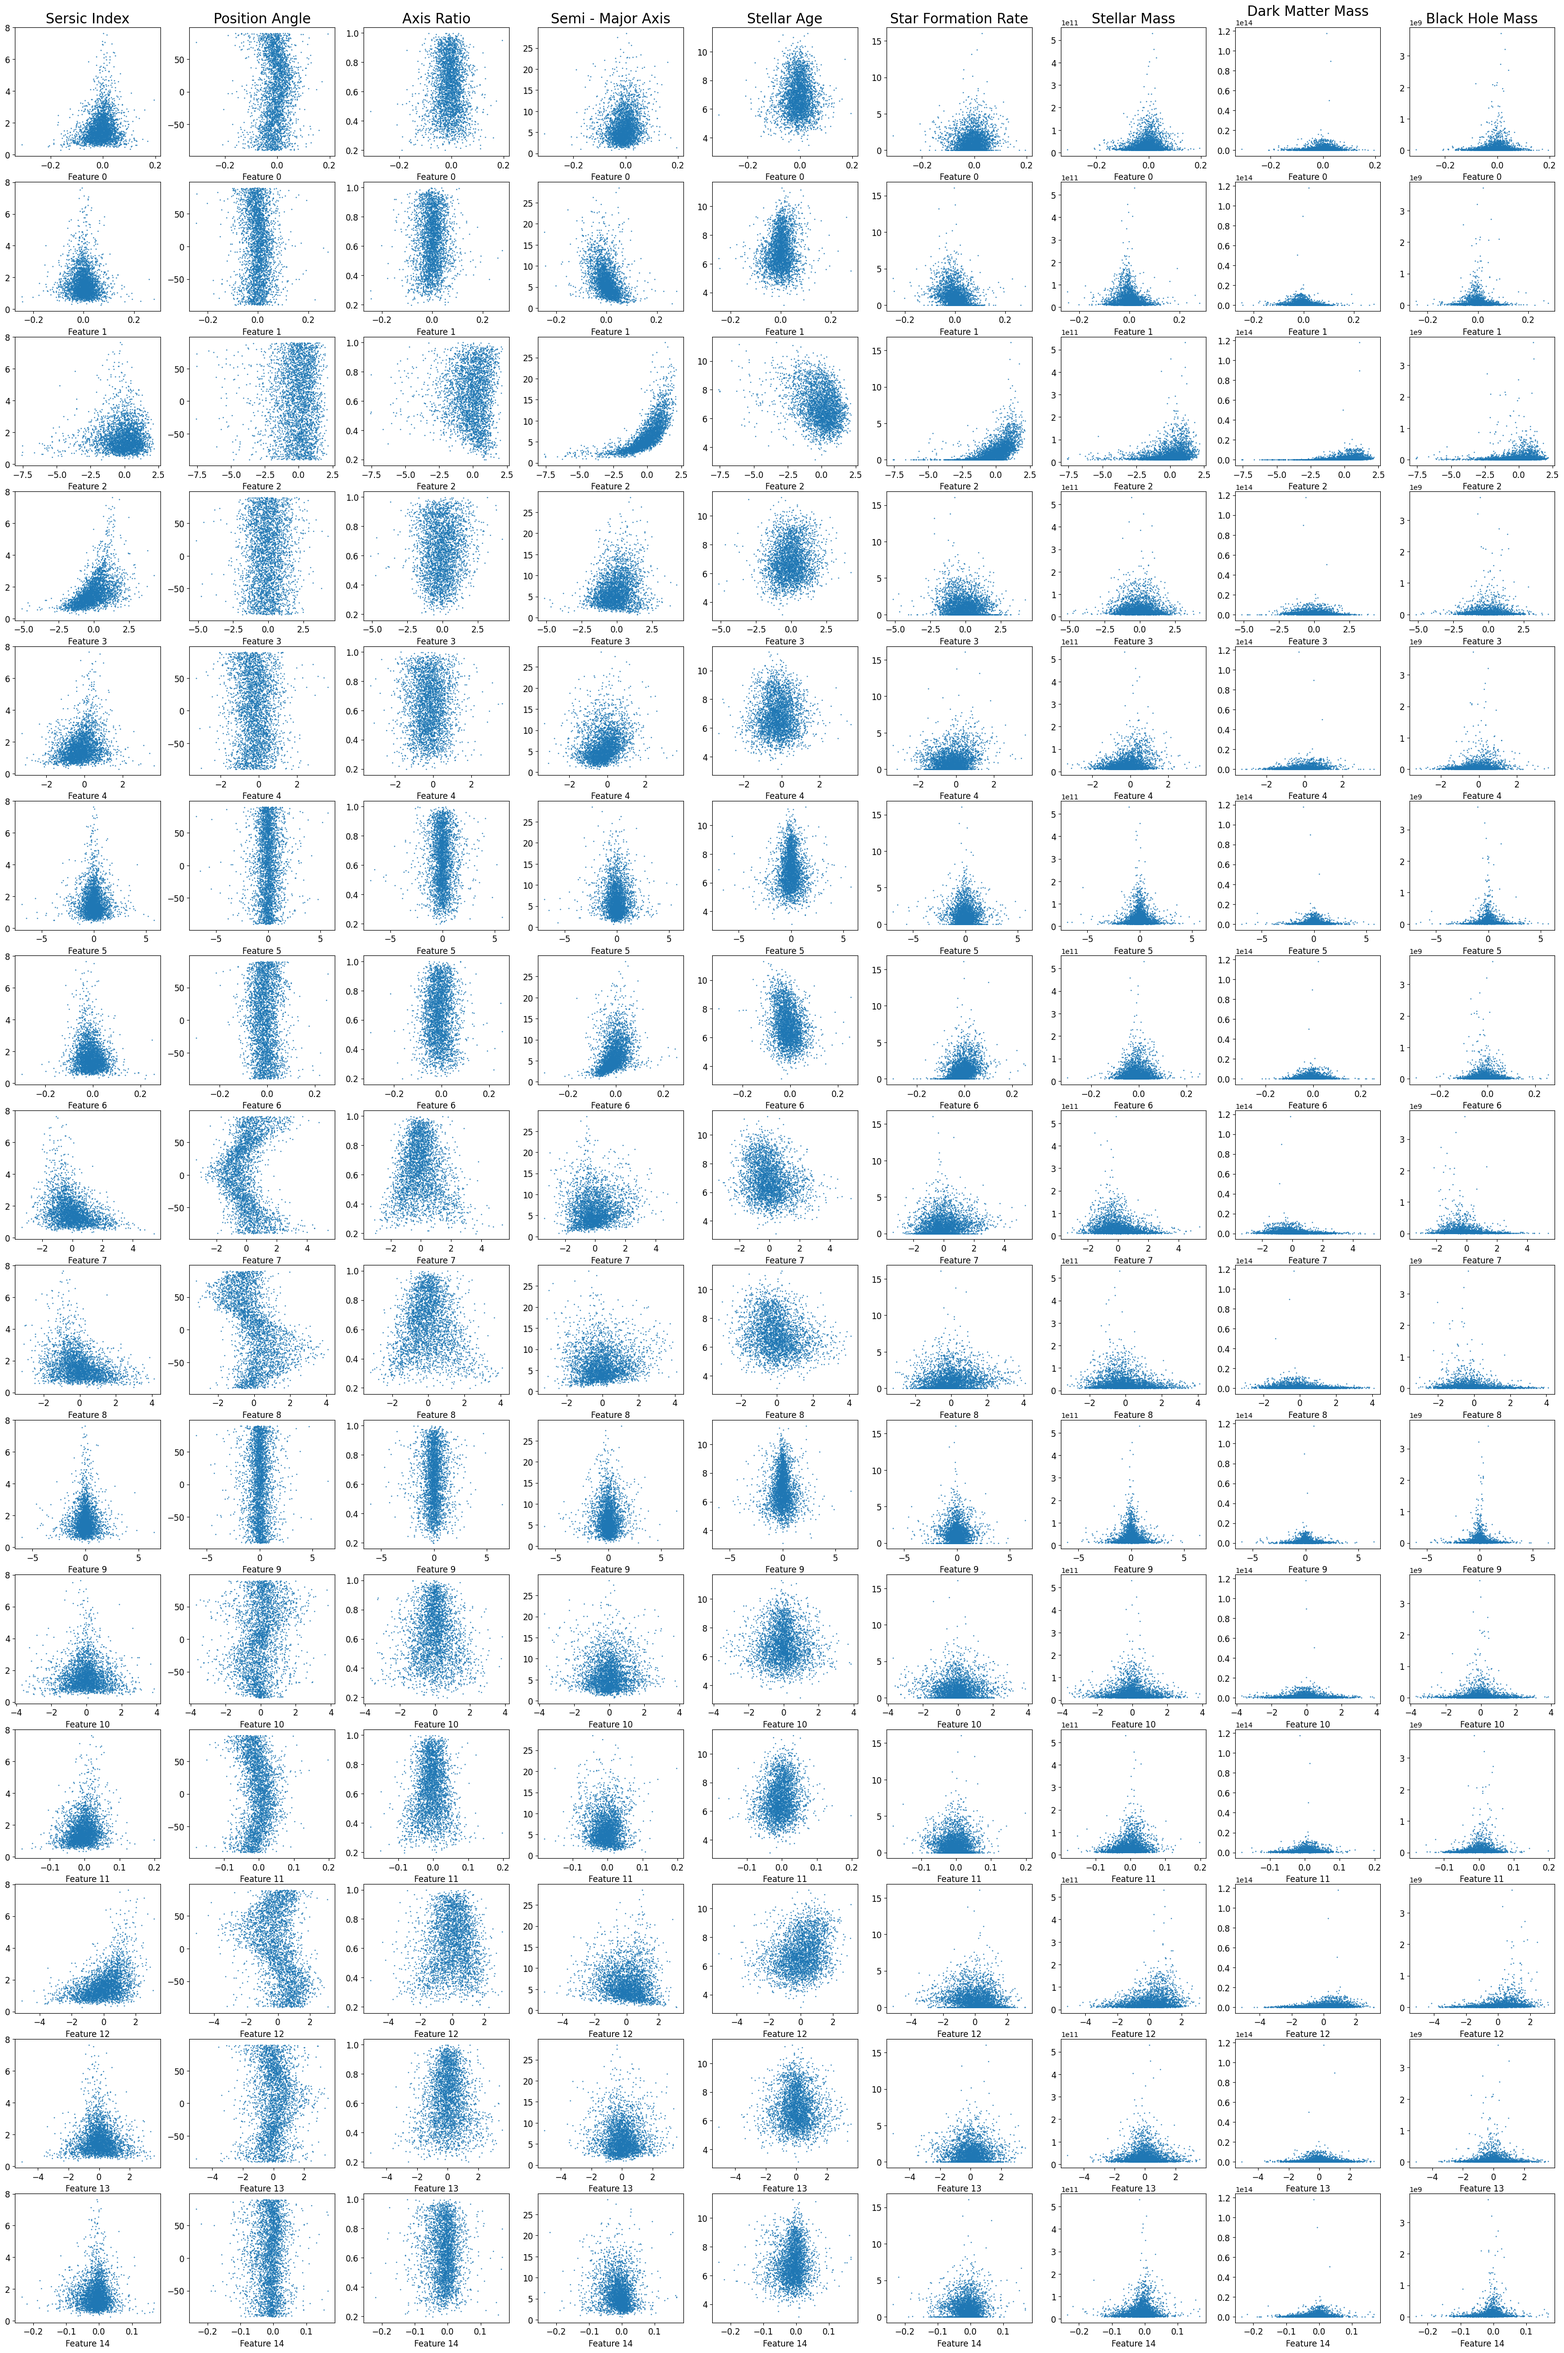
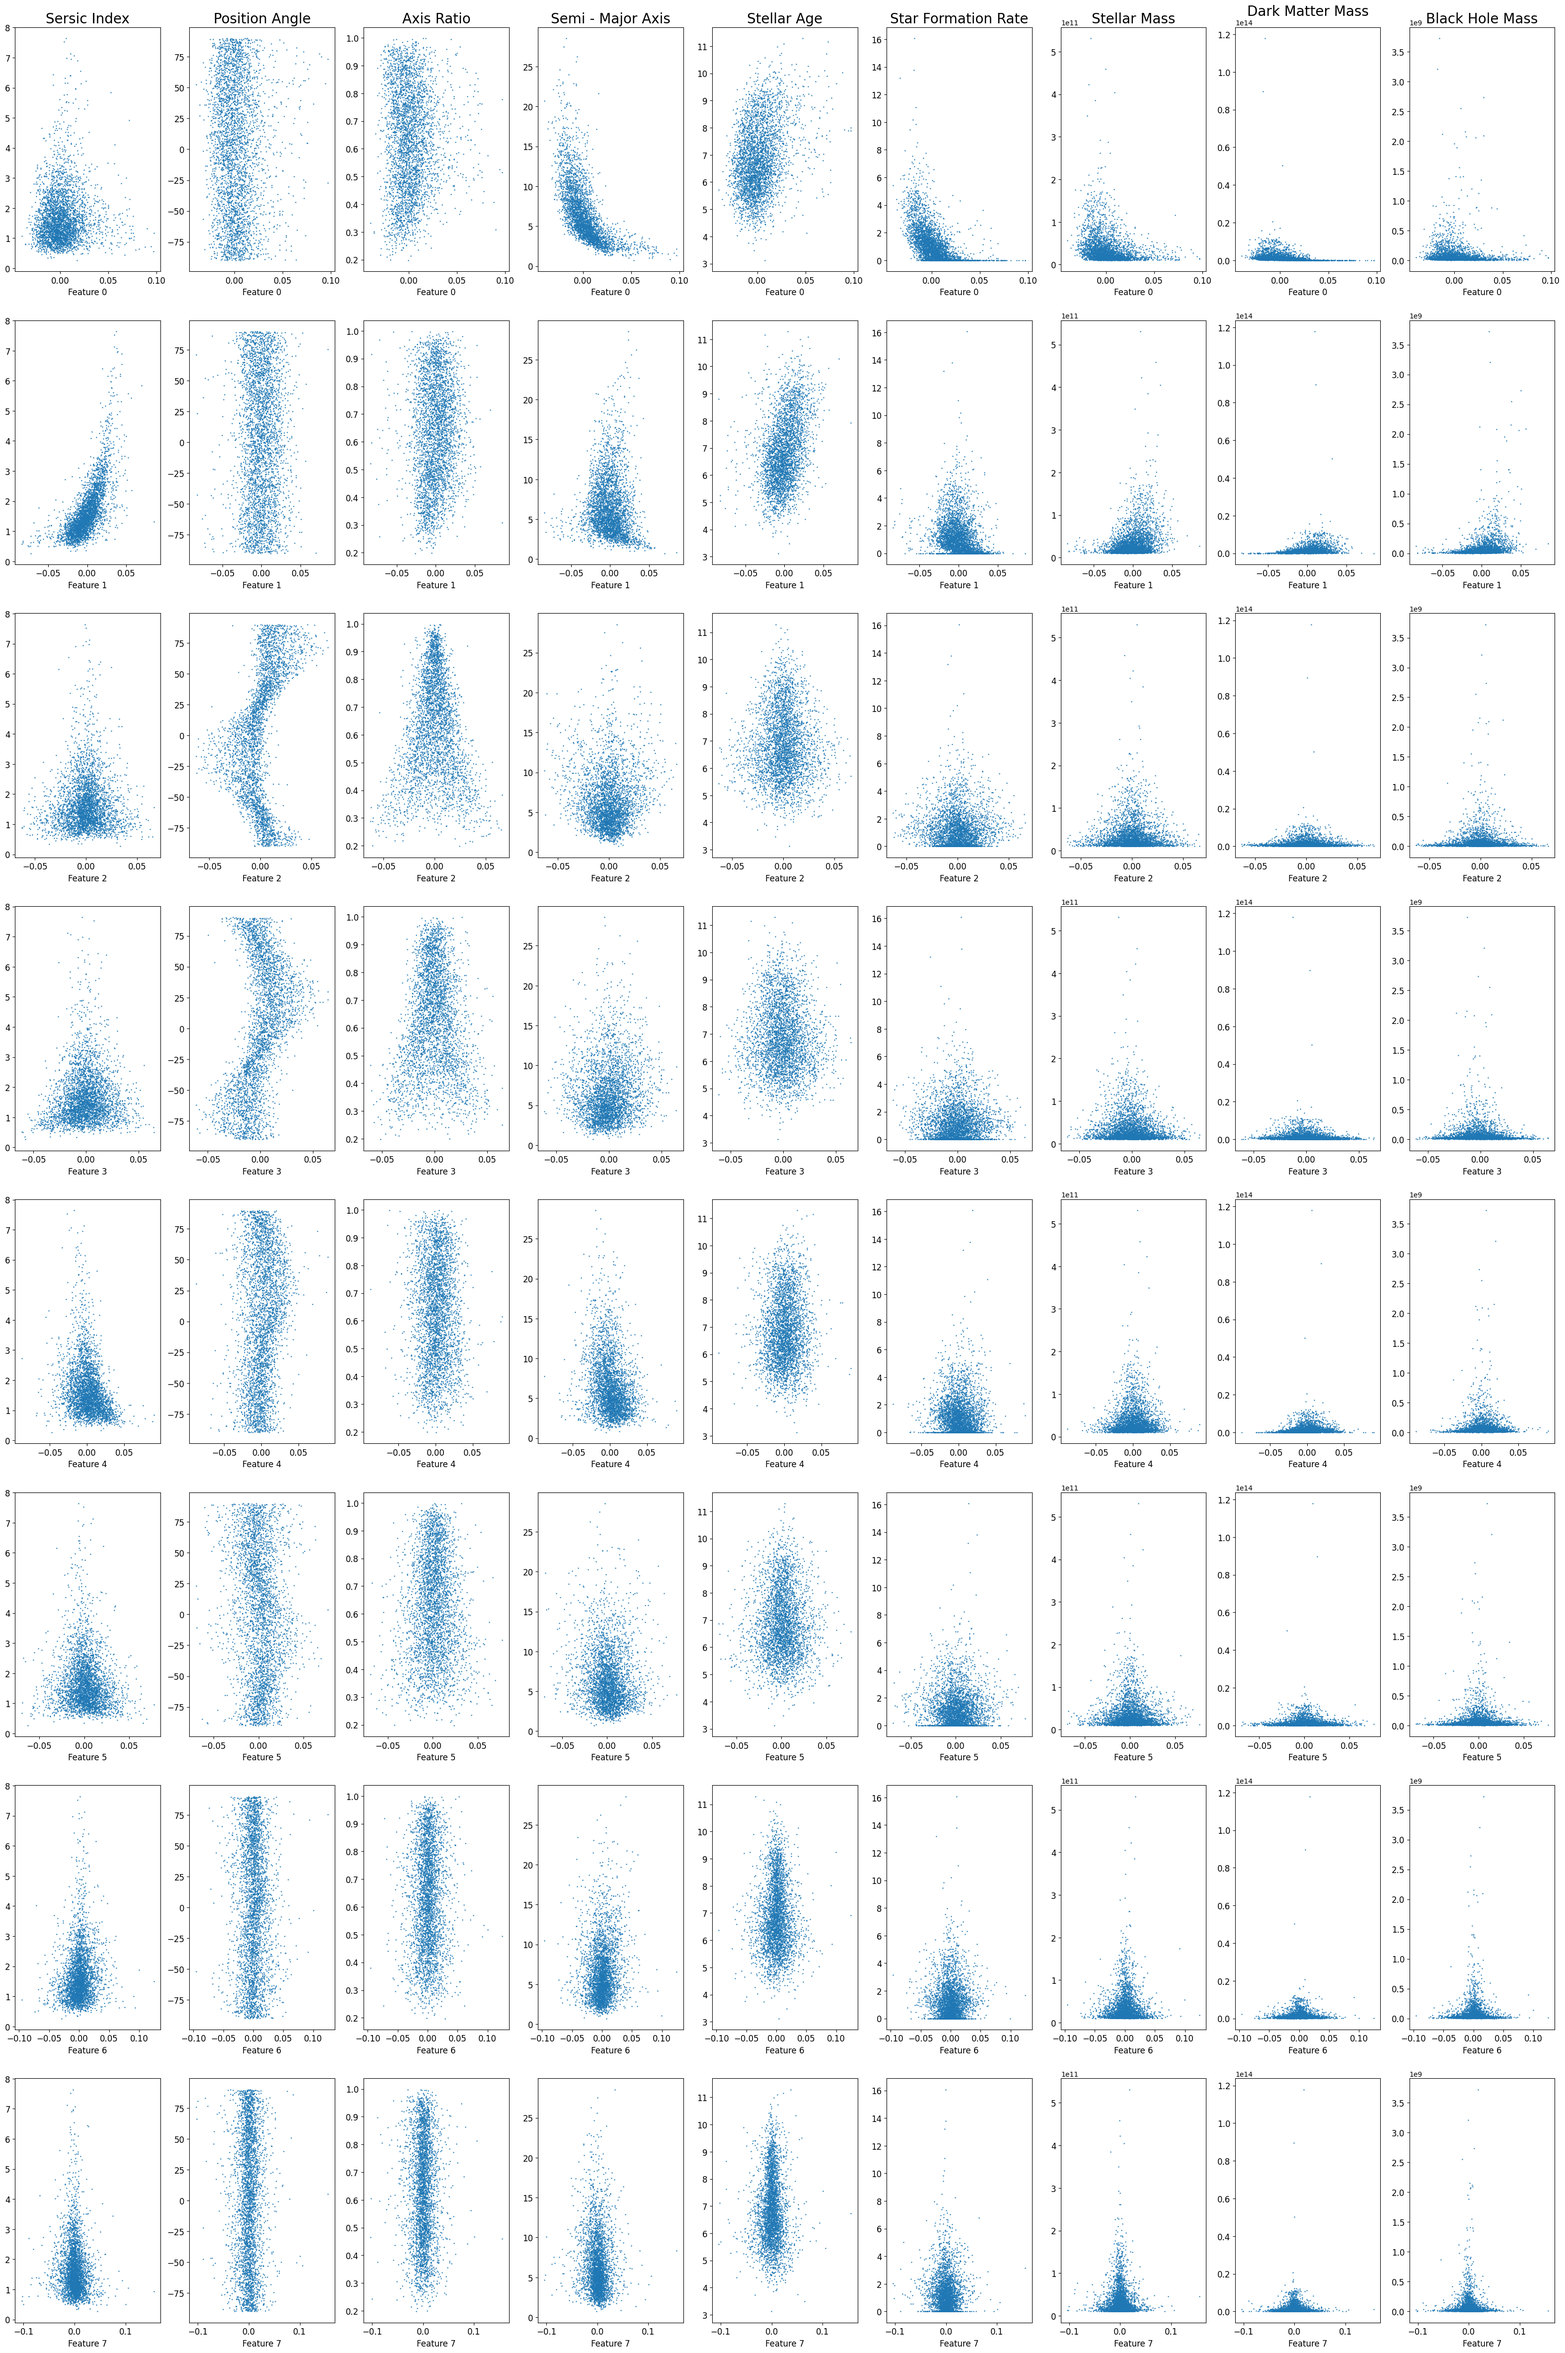
Code

diff --git a/comparison-extracted_features.py b/comparison-extracted_features.py
@@ -17,22 +17,14 @@ pd.set_option('display.max_columns', None)
 pd.set_option('display.width', 500)
 
 
-encoding_dim = 15
+encoding_dim = 38
 
 # load the extracted features
-extracted_features = np.load("Variational Eagle/Extracted Features/Normalised to G/" + str(encoding_dim) + "_feature_300_epoch_features_3.npy")[0]
+extracted_features = np.load("Variational Eagle/Extracted Features/Normalised to G/" + str(encoding_dim) + "_feature_300_epoch_features_1.npy")[0]
 extracted_features_switch = extracted_features.T
 
 print(extracted_features_switch.shape)
 
-
-
-# perform pca on the extracted features
-pca = PCA(n_components=0.90).fit(extracted_features_switch)
-extracted_features_switch = np.array(pca.components_)
-
-
-print(extracted_features_switch.shape)
 
 
 
@@ -61,6 +53,16 @@ print(all_properties[all_properties["flag_r"] == 4])
 print(all_properties[all_properties["flag_r"] == 1])
 print(all_properties[all_properties["flag_r"] == 5])
 
+
+
+
+
+
+# perform pca on the extracted features
+pca = PCA(n_components=0.9).fit(extracted_features.T)
+extracted_features_switch = np.array(pca.components_)
+
+print(extracted_features_switch.shape)
 
 
 
@@ -280,7 +282,7 @@ wrap_labels(ax, 10)
 
 
 
-plt.savefig("Variational Eagle/Correlation Plots/" + str(encoding_dim) + "_feature_pca_8_all_property_correlation_3_abs", bbox_inches='tight')
+plt.savefig("Variational Eagle/Correlation Plots/" + str(encoding_dim) + "_feature_pca_9_all_property_correlation_1_abs", bbox_inches='tight')
 plt.show()
 
 
@@ -316,7 +318,8 @@ for i, property in enumerate(properties):
     axs[0][i].set_title(property_labels[i], fontsize=20)
 
     # for feature in range(0, 19):
-    for feature in range(0, encoding_dim):
+    # for feature in range(0, encoding_dim):
+    for feature in range(0, extracted_features_switch.shape[0]):
 
         axs[feature][i].scatter(x=extracted_features_switch[feature], y=all_properties[property], s=0.5)
         # axs[feature][i].scatter(x=extracted_features_switch[feature+19], y=all_properties[property], s=0.5)
@@ -328,7 +331,7 @@ for i, property in enumerate(properties):
         axs[feature][i].set_ylabel(None)
         axs[feature][i].tick_params(labelsize=12)
 
-plt.savefig("Variational Eagle/Correlation Plots/scatter_" + str(encoding_dim) + "_feature_all_property_correlation_3", bbox_inches='tight')
+plt.savefig("Variational Eagle/Correlation Plots/scatter_" + str(encoding_dim) + "_feature_pca_9_all_property_correlation_1", bbox_inches='tight')
 # plt.savefig("Variational Eagle/Correlation Plots/scatter_" + str(encoding_dim) + "_feature_all_property_correlation_p2", bbox_inches='tight')
 plt.show()
 

diff --git a/eagle_image_processing.py b/eagle_image_processing.py
@@ -48,18 +48,18 @@ for i, galaxy in enumerate(chosen_galaxies):
     image = np.log10(image)
 
     # normalise the image (either each band independently or to the r band)
-    image = normalise_independently(image)
-    # image = normalise_to_r(image)
+    # image = normalise_independently(image)
+    image = normalise_to_r(image)
 
     # add the image to the dataset
     all_images.append(image)
 
 
 
-    # print(np.min(image.T[0]), np.max(image.T[0]))
-    # print(np.min(image.T[1]), np.max(image.T[1]))
-    # print(np.min(image.T[2]), np.max(image.T[2]))
-    # print()
+    print(np.min(image.T[0]), np.max(image.T[0]))
+    print(np.min(image.T[1]), np.max(image.T[1]))
+    print(np.min(image.T[2]), np.max(image.T[2]))
+    print()
 
     # if not(np.min(image[0]) == np.min(image[1]) == np.min(image[2]) == 0.0 and np.max(image[0]) == np.max(image[1]) == np.max(image[2]) == 1.0):
     #     print(galaxy)

diff --git a/pca.py b/pca.py
@@ -3,10 +3,13 @@ import numpy as np
 import pandas as pd
 
 
-extracted_features = np.load("Variational Eagle/Extracted Features/Normalised to G/15_feature_300_epoch_features_1.npy")[0]
+extracted_features = np.load("Variational Eagle/Extracted Features/Normalised to G/38_feature_300_epoch_features_1.npy")[0]
 
 print(extracted_features.shape)
 
-pca = PCA(n_components=0.90).fit(extracted_features.T)
+pca = PCA(n_components=0.9).fit(extracted_features.T)
 
 print(pca.components_.shape)
+
+for i in range(pca.components_.shape[0]):
+    print(len(list(pca.components_[0])))
